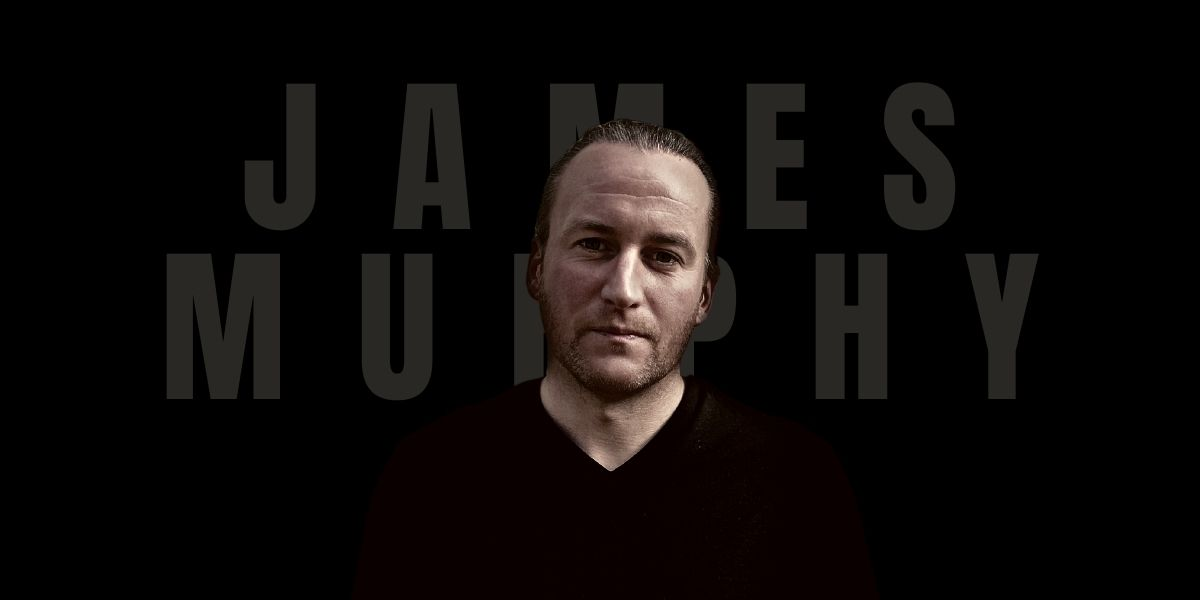
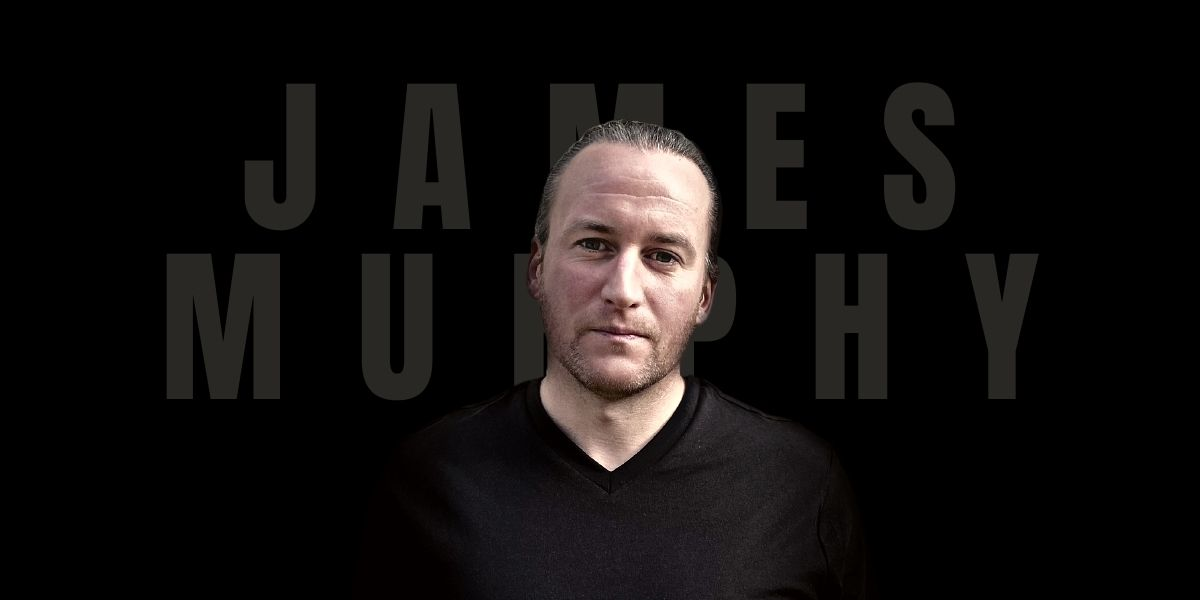
http.server

Changed region(s): [[0.37, 0.18, 0.6783, 1.0]]

diff --git a/assets/css/style.css b/assets/css/style.css
@@ -246,13 +246,13 @@ nav {
   width: auto;
   object-fit: contain;
   overflow: hidden;
-  background: url(../images/1.jpg) no-repeat center center;
+  background: url(../images/3.jpg) no-repeat center center;
 }
 
 @media screen and (max-width: 968px) {
   
   #hero-image {
-    background: url(../images/3.jpg) no-repeat center center;
+    background: url(../images/4.jpg) no-repeat center center;
   }
 }
 
